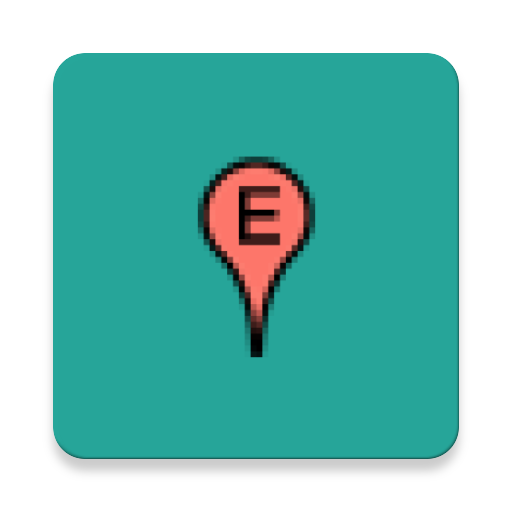
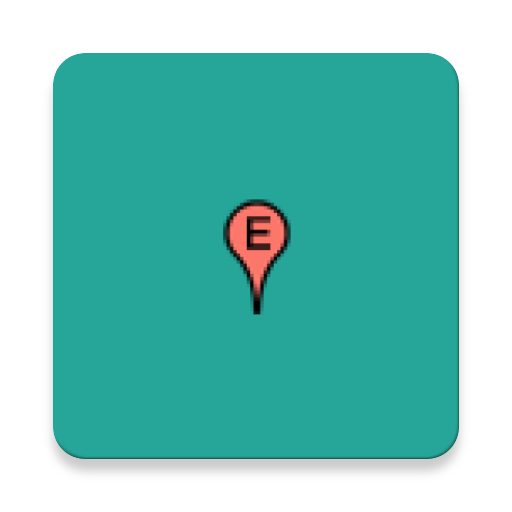
Joder con los iconos

Changed region(s): [[0.375, 0.2812, 0.625, 0.7188]]

diff --git a/PantallaFirstView/app/src/main/java/com/example/PETBook/Fragments/MyMapFragment.java b/PantallaFirstView/app/src/main/java/com/example/PETBook/Fragments/MyMapFragment.java
@@ -3,7 +3,6 @@ package com.example.PETBook.Fragments;
 import android.Manifest;
 import android.content.Intent;
 import android.content.pm.PackageManager;
-import android.support.constraint.ConstraintLayout;
 import android.support.v4.app.ActivityCompat;
 import android.support.v4.app.Fragment;
 import android.os.Bundle;
@@ -17,7 +16,6 @@ import android.widget.TextView;
 import com.example.PETBook.Conexion;
 import com.example.PETBook.Controllers.AsyncResult;
 import com.example.PETBook.EventInfo;
-import com.example.PETBook.MainActivity;
 import com.example.PETBook.Models.EventModel;
 import com.example.PETBook.Models.InterestSiteModel;
 import com.example.PETBook.SingletonUsuario;
@@ -153,15 +151,16 @@ public class MyMapFragment extends Fragment implements OnMapReadyCallback, Async
                             LatLng pos = new LatLng(e.getLatitude(), e.getLongitude());
                             Marker markEvent = mMap.addMarker(new MarkerOptions().position(pos));
                             if (e.getCreador().equals(SingletonUsuario.getInstance().getEmail())){
-                                markEvent.setIcon(BitmapDescriptorFactory.fromResource(R.mipmap.ic_map_creator_foreground));
+                                markEvent.setIcon(BitmapDescriptorFactory.fromResource(R.drawable.yellow_marker));
                             }
                             else if (e.getMiembros().contains(SingletonUsuario.getInstance().getEmail())){
-                                markEvent.setIcon(BitmapDescriptorFactory.fromResource(R.mipmap.ic_map_participant_foreground));
+                                markEvent.setIcon(BitmapDescriptorFactory.fromResource(R.drawable.green_marker));
                             }
                             else {
-                                markEvent.setIcon(BitmapDescriptorFactory.fromResource(R.mipmap.ic_map_foreground));
+                                markEvent.setIcon(BitmapDescriptorFactory.fromResource(R.drawable.red_marker));
                             }
                             markEvent.setTag(i + " Event");
+                            //markEvent.setAnchor(0.0f,0.0f);
                         }
                         typeConnection = "Interest Sites";
                         Conexion con = new Conexion(MyMapFragment.this);
